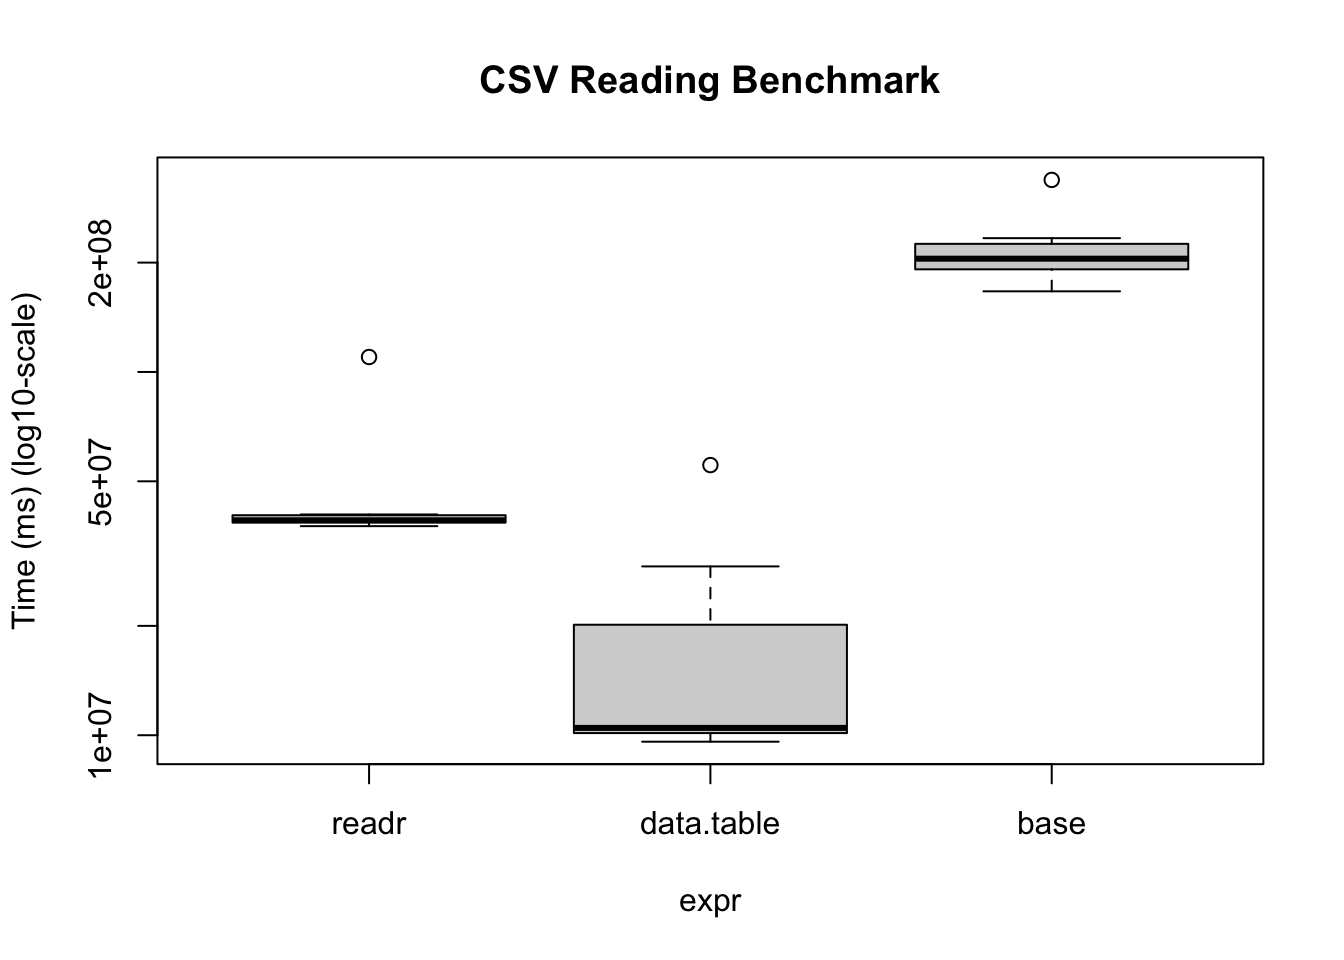
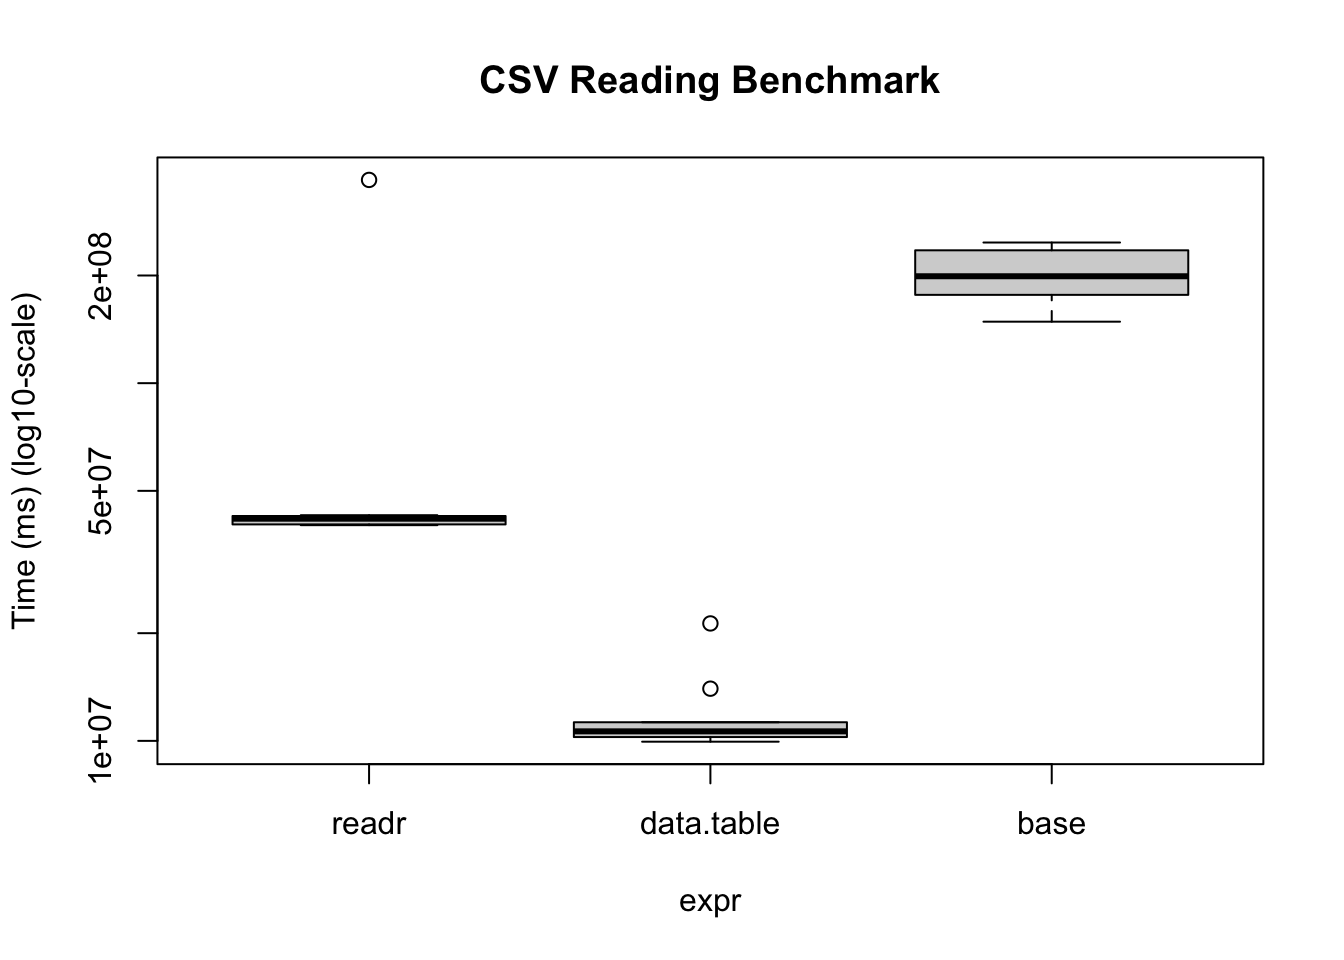
Updating

diff --git a/docs/efficiency.html b/docs/efficiency.html
@@ -6,6 +6,8 @@
 
 <meta name="viewport" content="width=device-width, initial-scale=1.0, user-scalable=yes">
 
+<meta name="author" content="George G. Vega Yon, Ph.D.">
+<meta name="dcterms.date" content="2025-08-14">
 
 <title>Writing efficient code – Efficient Programming with R: A Workshop</title>
 <style>
@@ -217,7 +219,19 @@ pre > code.sourceCode > span > a:first-child::before { text-decoration: underlin
 
 <div class="quarto-title-meta">
 
+    <div>
+    <div class="quarto-title-meta-heading">Author</div>
+    <div class="quarto-title-meta-contents">
+             <p>George G. Vega Yon, Ph.D. </p>
+          </div>
+  </div>
     
+    <div>
+    <div class="quarto-title-meta-heading">Published</div>
+    <div class="quarto-title-meta-contents">
+      <p class="date">August 14, 2025</p>
+    </div>
+  </div>
   
     
   </div>
@@ -270,9 +284,9 @@ pre > code.sourceCode > span > a:first-child::before { text-decoration: underlin
 <span id="cb2-13"><a href="#cb2-13" aria-hidden="true" tabindex="-1"></a>)</span></code><button title="Copy to Clipboard" class="code-copy-button"><i class="bi"></i></button></pre></div>
 <div class="cell-output cell-output-stdout">
 <pre><code>Unit: relative
-       expr  min       lq     mean   median       uq      max neval
-       loop 4374 1724.909 1231.412 1494.423 1094.216 518.7375   100
- vectorized    1    1.000    1.000    1.000    1.000   1.0000   100</code></pre>
+       expr  min       lq    mean  median       uq      max neval
+       loop 3544 2120.111 873.775 1651.25 672.2742 201.0462   100
+ vectorized    1    1.000   1.000    1.00   1.0000   1.0000   100</code></pre>
 </div>
 </div>
 <div class="callout callout-style-default callout-tip callout-titled">
@@ -325,9 +339,12 @@ Tip
 <span id="cb5-7"><a href="#cb5-7" aria-hidden="true" tabindex="-1"></a>)</span></code><button title="Copy to Clipboard" class="code-copy-button"><i class="bi"></i></button></pre></div>
 <div class="cell-output cell-output-stdout">
 <pre><code>Unit: relative
-                 expr   min       lq     mean   median uq      max neval
-        fibonacci(10) 26.35 25.47619 19.34752 24.15556 23 7.227848    10
- fibonacci_cached(10)  1.00  1.00000  1.00000  1.00000  1 1.000000    10</code></pre>
+                 expr      min       lq     mean   median       uq      max
+        fibonacci(10) 25.28571 23.43478 17.87385 23.18367 20.89655 6.682692
+ fibonacci_cached(10)  1.00000  1.00000  1.00000  1.00000  1.00000 1.000000
+ neval
+    10
+    10</code></pre>
 </div>
 </div>
 </section>
@@ -434,8 +451,8 @@ Tip
 <div class="cell-output cell-output-stdout">
 <pre><code>Unit: relative
    expr      min       lq     mean   median       uq      max neval
-     lm 3.848261 3.706667 4.988114 3.578396 3.767868 12.80968    10
- lm_fit 1.000000 1.000000 1.000000 1.000000 1.000000  1.00000    10</code></pre>
+     lm 3.964394 3.924963 4.512402 3.883183 3.706908 8.145291    10
+ lm_fit 1.000000 1.000000 1.000000 1.000000 1.000000 1.000000    10</code></pre>
 </div>
 </div>
 </section>
@@ -451,22 +468,22 @@ Tip
 <span id="cb11-6"><a href="#cb11-6" aria-hidden="true" tabindex="-1"></a><span class="co"># Checking the address of the objects</span></span>
 <span id="cb11-7"><a href="#cb11-7" aria-hidden="true" tabindex="-1"></a><span class="fu">library</span>(lobstr)</span>
 <span id="cb11-8"><a href="#cb11-8" aria-hidden="true" tabindex="-1"></a><span class="fu">obj_addr</span>(X)</span>
-<span id="cb11-9"><a href="#cb11-9" aria-hidden="true" tabindex="-1"></a><span class="do">## [1] "0x1318b8000"</span></span>
+<span id="cb11-9"><a href="#cb11-9" aria-hidden="true" tabindex="-1"></a><span class="do">## [1] "0x1289d0000"</span></span>
 <span id="cb11-10"><a href="#cb11-10" aria-hidden="true" tabindex="-1"></a><span class="fu">obj_addr</span>(Y)</span>
-<span id="cb11-11"><a href="#cb11-11" aria-hidden="true" tabindex="-1"></a><span class="do">## [1] "0x1318b8000"</span></span>
+<span id="cb11-11"><a href="#cb11-11" aria-hidden="true" tabindex="-1"></a><span class="do">## [1] "0x1289d0000"</span></span>
 <span id="cb11-12"><a href="#cb11-12" aria-hidden="true" tabindex="-1"></a><span class="fu">obj_addr</span>(Z)</span>
-<span id="cb11-13"><a href="#cb11-13" aria-hidden="true" tabindex="-1"></a><span class="do">## [1] "0x1318b8000"</span></span></code><button title="Copy to Clipboard" class="code-copy-button"><i class="bi"></i></button></pre></div>
+<span id="cb11-13"><a href="#cb11-13" aria-hidden="true" tabindex="-1"></a><span class="do">## [1] "0x1289d0000"</span></span></code><button title="Copy to Clipboard" class="code-copy-button"><i class="bi"></i></button></pre></div>
 </div>
 <p>Modifying <code>X</code> will trigger a copy operation, and the addresses of <code>Y</code> and <code>Z</code> will remain the same, while <code>X</code> will have a new address:</p>
 <div class="cell">
 <div class="sourceCode cell-code" id="cb12"><pre class="sourceCode r code-with-copy"><code class="sourceCode r"><span id="cb12-1"><a href="#cb12-1" aria-hidden="true" tabindex="-1"></a><span class="co"># Modifying X</span></span>
 <span id="cb12-2"><a href="#cb12-2" aria-hidden="true" tabindex="-1"></a>X[<span class="dv">1</span>] <span class="ot">&lt;-</span> <span class="dv">100</span>  <span class="co"># This is when R makes a copy of X</span></span>
 <span id="cb12-3"><a href="#cb12-3" aria-hidden="true" tabindex="-1"></a><span class="fu">obj_addr</span>(X)</span>
-<span id="cb12-4"><a href="#cb12-4" aria-hidden="true" tabindex="-1"></a><span class="do">## [1] "0x121d20000"</span></span>
+<span id="cb12-4"><a href="#cb12-4" aria-hidden="true" tabindex="-1"></a><span class="do">## [1] "0x138eb8000"</span></span>
 <span id="cb12-5"><a href="#cb12-5" aria-hidden="true" tabindex="-1"></a><span class="fu">obj_addr</span>(Y)</span>
-<span id="cb12-6"><a href="#cb12-6" aria-hidden="true" tabindex="-1"></a><span class="do">## [1] "0x1318b8000"</span></span>
+<span id="cb12-6"><a href="#cb12-6" aria-hidden="true" tabindex="-1"></a><span class="do">## [1] "0x1289d0000"</span></span>
 <span id="cb12-7"><a href="#cb12-7" aria-hidden="true" tabindex="-1"></a><span class="fu">obj_addr</span>(Z)</span>
-<span id="cb12-8"><a href="#cb12-8" aria-hidden="true" tabindex="-1"></a><span class="do">## [1] "0x1318b8000"</span></span></code><button title="Copy to Clipboard" class="code-copy-button"><i class="bi"></i></button></pre></div>
+<span id="cb12-8"><a href="#cb12-8" aria-hidden="true" tabindex="-1"></a><span class="do">## [1] "0x1289d0000"</span></span></code><button title="Copy to Clipboard" class="code-copy-button"><i class="bi"></i></button></pre></div>
 </div>
 
 

diff --git a/docs/data.table.html b/docs/data.table.html
@@ -6,6 +6,8 @@
 
 <meta name="viewport" content="width=device-width, initial-scale=1.0, user-scalable=yes">
 
+<meta name="author" content="George G. Vega Yon, Ph.D.">
+<meta name="dcterms.date" content="2025-08-14">
 
 <title>The data.table R package – Efficient Programming with R: A Workshop</title>
 <style>
@@ -214,7 +216,19 @@ pre > code.sourceCode > span > a:first-child::before { text-decoration: underlin
 
 <div class="quarto-title-meta">
 
+    <div>
+    <div class="quarto-title-meta-heading">Author</div>
+    <div class="quarto-title-meta-contents">
+             <p>George G. Vega Yon, Ph.D. </p>
+          </div>
+  </div>
     
+    <div>
+    <div class="quarto-title-meta-heading">Published</div>
+    <div class="quarto-title-meta-contents">
+      <p class="date">August 14, 2025</p>
+    </div>
+  </div>
   
     
   </div>
@@ -304,10 +318,10 @@ overflows</code></pre>
 <div class="sourceCode cell-code" id="cb9"><pre class="sourceCode r code-with-copy"><code class="sourceCode r"><span id="cb9-1"><a href="#cb9-1" aria-hidden="true" tabindex="-1"></a>bm</span></code><button title="Copy to Clipboard" class="code-copy-button"><i class="bi"></i></button></pre></div>
 <div class="cell-output cell-output-stdout">
 <pre><code>Unit: milliseconds
-       expr        min        lq      mean    median        uq      max neval
-      readr  37.631276  38.50851  46.13079  39.05629  40.32838 109.9365    10
- data.table   9.598879  10.13672  17.68502  10.47573  20.14621  55.4172    10
-       base 166.714323 191.63904 214.94111 205.02200 225.25822 337.7869    10</code></pre>
+       expr        min        lq      mean    median        uq       max neval
+      readr  40.088898  40.28516  74.29501  41.79661  42.52569 370.04095    10
+ data.table   9.947297  10.24852  11.92535  10.63159  11.27336  21.29651    10
+       base 148.565591 176.56457 204.73412 199.02650 235.19945 247.29724    10</code></pre>
 </div>
 <div class="sourceCode cell-code" id="cb11"><pre class="sourceCode r code-with-copy"><code class="sourceCode r"><span id="cb11-1"><a href="#cb11-1" aria-hidden="true" tabindex="-1"></a>bm <span class="sc">|&gt;</span></span>
 <span id="cb11-2"><a href="#cb11-2" aria-hidden="true" tabindex="-1"></a>  <span class="fu">plot</span>(</span>
@@ -372,8 +386,8 @@ Attaching package: 'dplyr'</code></pre>
 <div class="cell-output cell-output-stdout">
 <pre><code>Unit: milliseconds
        expr      min       lq     mean   median       uq       max neval
- data.table 1.546356 1.668229 2.193217 1.774050 1.972735  5.053373   100
-      dplyr 4.719141 4.880312 5.634190 4.976457 5.245601 33.803516   100</code></pre>
+ data.table 1.788051 2.121955 2.789121 2.367279 2.963931  5.913922   100
+      dplyr 5.255011 5.544102 6.682056 5.832742 6.371748 37.637713   100</code></pre>
 </div>
 </div>
 

diff --git a/docs/profiling.html b/docs/profiling.html
@@ -6,6 +6,8 @@
 
 <meta name="viewport" content="width=device-width, initial-scale=1.0, user-scalable=yes">
 
+<meta name="author" content="George G. Vega Yon, Ph.D.">
+<meta name="dcterms.date" content="2025-08-14">
 
 <title>Profiling – Efficient Programming with R: A Workshop</title>
 <style>
@@ -218,7 +220,19 @@ pre > code.sourceCode > span > a:first-child::before { text-decoration: underlin
 
 <div class="quarto-title-meta">
 
+    <div>
+    <div class="quarto-title-meta-heading">Author</div>
+    <div class="quarto-title-meta-contents">
+             <p>George G. Vega Yon, Ph.D. </p>
+          </div>
+  </div>
     
+    <div>
+    <div class="quarto-title-meta-heading">Published</div>
+    <div class="quarto-title-meta-contents">
+      <p class="date">August 14, 2025</p>
+    </div>
+  </div>
   
     
   </div>
